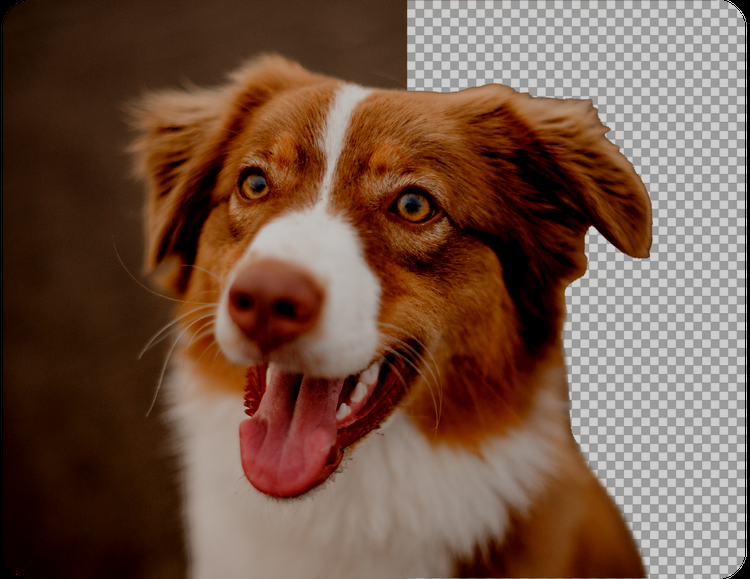
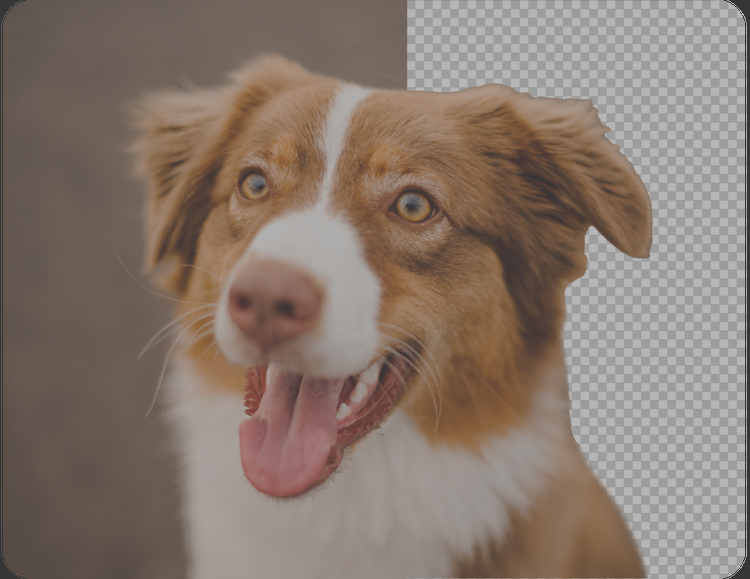
filter feature: contrast

diff --git a/src/services/apply-filters.js b/src/services/apply-filters.js
@@ -17,10 +17,24 @@ function applyOpacityService(pixels, opacityValue) {
 
 // Adds or decrease pixel rgb values to chagne brightness
 function applyBrightnessService(pixels, brightnessValue) {
-  for (let i = 2; i < pixels.length; i += 4) { //
-    pixels[i - 2] = clapPixel(pixels[i - 2] + brightnessValue); // r
-    pixels[i - 1] = clapPixel(pixels[i - 1] + brightnessValue); // g
-    pixels[i] = clapPixel(pixels[i] + brightnessValue); // b
+  // Skips over opacity
+  for (let i = 0; i < pixels.length; i += 4) {
+    for (let j = 0; j < 3; j++) {
+      pixels[i + j] = clapPixel(pixels[i + j] + brightnessValue);
+    }
+  }
+}
+
+// Changes brightness by increase or decreasing distance from midpoint (128)
+function applyContrastService(pixels, contrastMultiplierValue) {
+  const midpoint = 128;
+  // Skips over opacity
+  for (let i = 0; i < pixels.length; i += 4) {
+    for (let j = 0; j < 3; j++) {
+      const distanceFromMidpoint = pixels[i + j] - midpoint;
+      const newDistance = distanceFromMidpoint * contrastMultiplierValue;
+      pixels[i + j] = clapPixel(118 + newDistance);
+    }
   }
 }
 
@@ -29,6 +43,7 @@ export function applyFiltersService(imageId, pixels) {
   const filterOrder = {
     "opacity": 0,
     "brightness": 1,
+    "contrast": 2,
   };
   // Get all the filters being applied
   const filters = dbGetFilters(imageId);
@@ -43,6 +58,8 @@ export function applyFiltersService(imageId, pixels) {
       applyOpacityService(pixels, Number(filter.value));
     } else if (filter.filterName === "brightness") {
       applyBrightnessService(pixels, Number(filter.value));
+    } else if (filter.filterName === "contrast") {
+      applyContrastService(pixels, Number(filter.value));
     }
     // Other filter will be add
   });

diff --git a/src/services/filters.js b/src/services/filters.js
@@ -38,6 +38,12 @@ export function isValidFilterService(filterName, value) {
       "min": -50,
       "max": 50,
     },
+    "contrast": {
+      "defaultValue": 1,
+      "type": "range",
+      "min": 0.5,
+      "max": 1.5,
+    },
     "flip": {
       "defaultValue": 0,
       "type": "specific",
